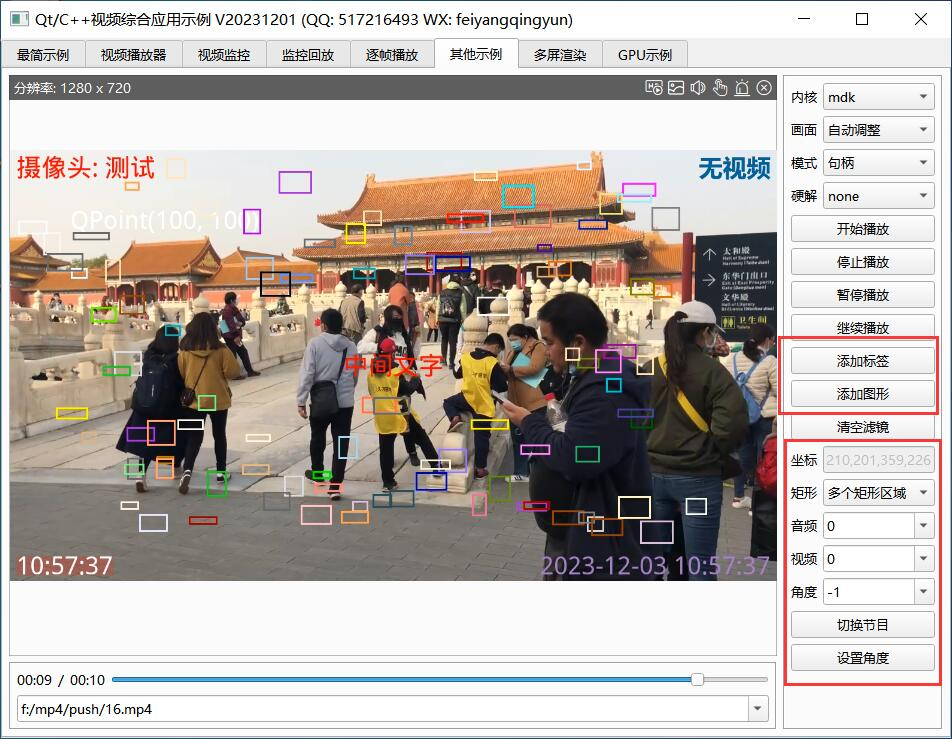
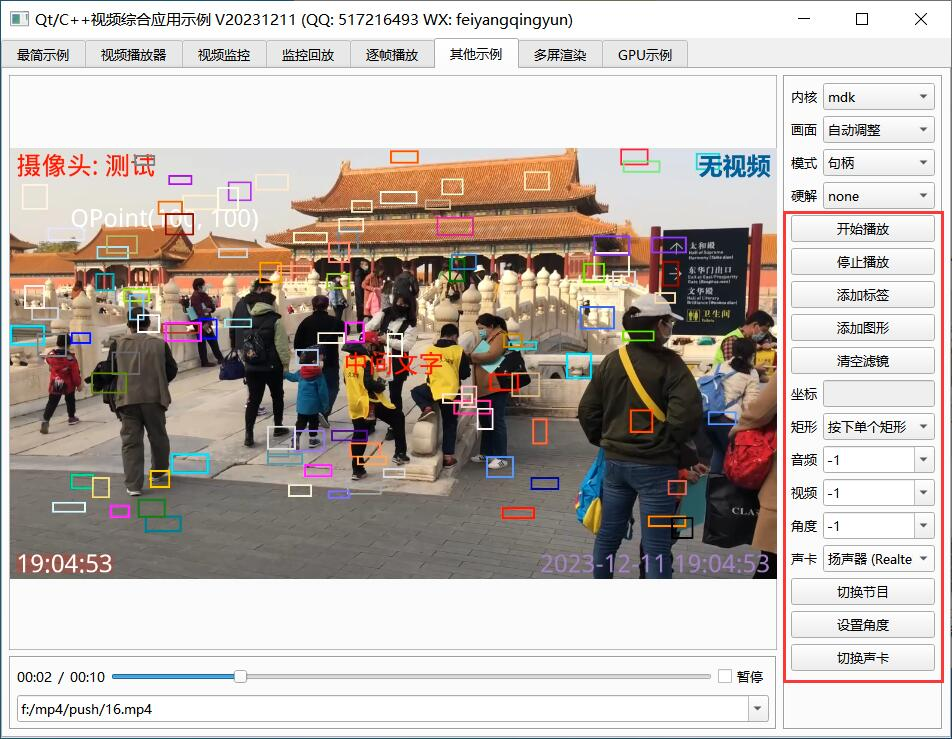
更新文档

diff --git a/snap_video_demo/readme.md b/snap_video_demo/readme.md
@@ -1,17 +1,18 @@
 
 ## 1. 前言说明
-1. 编译好之后记得将动态库文件比如dll_ffmpeg4（如果是vlc内核则是dll_vlc3）下面的所有文件复制到可执行文件同一目录。ffmpeg内核非windows系统开发，可以参考core_videoffmpeg目录下的文件，linux系统和mac系统上库的用法.txt / 编译阶段linux系统ffmpeg库放置位置.jpg / 运行阶段linux系统ffmpeg库放置位置。
-2. **编译后生成的可执行文件在当前项目源码下的bin目录中，和core_videobase同级目录。**
-3. 动态库区分32和64位，对应动态库目录后面有64字样表示是64位的库。
-4. 动态库下载链接：https://pan.baidu.com/s/13LDRu6mXC6gaADtrGprNVA 提取码: ujm7
-5. 如果需要滤镜支持比如文字水印还需要将源码下的 wenquanyi.ttf 字体文件复制到可执行文件同一目录。
-6. 项目作品大全：https://qtchina.blog.csdn.net/article/details/97565652。
-7. 代码文件说明：[https://feiyangqingyun.gitee.io/qwidgetdemo/video_system/#113313-模块-corevideoffmpeg](https://feiyangqingyun.gitee.io/qwidgetdemo/video_system/#113313-模块-corevideoffmpeg)
-8. 详细格式说明：[https://feiyangqingyun.gitee.io/qwidgetdemo/video_system/#07-视频格式](https://feiyangqingyun.gitee.io/qwidgetdemo/video_system/#07-视频格式)
+1. 编译好之后记得将动态库文件比如dll_ffmpeg4（如果是vlc内核则是dll_vlc3/举一反三其他内核都是如此）下面的所有文件复制到可执行文件同一目录。
+2. 非windows系统下使用ffmpeg内核，可以参考core_videoffmpeg目录下的说明文件，linux系统和mac系统上库的用法.txt / 编译阶段linux系统ffmpeg库放置位置.jpg / 运行阶段linux系统ffmpeg库放置位置。
+3. **编译后生成的可执行文件在当前项目源码下的bin目录中，和core_videobase同级目录。**
+4. 动态库严格区分32和64位，对应动态库目录后面有64字样表示是64位的库。如果用的是64位的Qt套件就选择64位的库。
+5. 动态库下载链接：https://pan.baidu.com/s/13LDRu6mXC6gaADtrGprNVA 提取码: ujm7
+6. 如果需要滤镜支持比如文字水印还需要将源码下的 wenquanyi.ttf 字体文件复制到可执行文件同一目录。
+7. 项目作品大全：https://qtchina.blog.csdn.net/article/details/97565652。
+8. 代码文件说明：[https://feiyangqingyun.gitee.io/qwidgetdemo/video_system/#113313-模块-corevideoffmpeg](https://feiyangqingyun.gitee.io/qwidgetdemo/video_system/#113313-模块-corevideoffmpeg)
+9. **地址格式说明：[https://feiyangqingyun.gitee.io/qwidgetdemo/video_system/#07-视频格式](https://feiyangqingyun.gitee.io/qwidgetdemo/video_system/#07-视频格式)**
 
 ## 2. 使用方法
 ### 2.0 特别提示
-- 除了ffmpeg内核有单独把音频视频和保存拆分成独立的组件以外，其他内核都是自己就是独立的完整的模块，所以其他模块都是和easyplayer内核一样有3个组件。
+- 每一种内核就是独立的完整的模块，可以独立拿出去使用。
 - 拷贝的pri组件建议放到你的项目的同级目录，这样方便区分管理，也可以放到你的项目的目录下，但是引入的时候记得做路径调整。比如代码文件的上级目录是 $$PWD/../ ，目录下就是 $$PWD/ 。
 - 使用对应的内核需要在pro中增加对应的内核定义，比如ffmpeg模块需要在pro中增加 DEFINES += ffmpeg 。
 - 具体的参数含义可以参见结构体定义（最重要的就是VideoPara和WidgetPara），以及完整的使用示例。
@@ -114,7 +115,7 @@ int main(int argc, char *argv[])
 11. 视频控件同时支持任意解码内核、任意画面显示策略、任意视频显示模式。
 12. 视频控件悬浮条同时支持句柄、绘制、GPU三种模式，非绝对坐标移来移去。
 13. 本地摄像头设备支持指定设备名称、分辨率、帧率进行播放。
-14. 本地桌面采集支持设定采集区域、偏移值、指定桌面索引、帧率、多个桌面同时采集等。
+14. 本地桌面采集支持设定采集区域、偏移值、指定桌面索引、帧率、多个桌面同时采集等。还支持指定窗口标题采集固定窗口。
 15. 录像文件同时支持打开的视频文件、本地摄像头、本地桌面、网络视频流等。
 16. 瞬间响应打开和关闭，无论是打开不存在的视频或者网络流，探测设备是否存在，读取中的超时等待，收到关闭指令立即中断之前的操作并响应。
 17. 支持打开各种图片文件，支持本地音视频文件拖曳播放。
@@ -130,18 +131,23 @@ int main(int argc, char *argv[])
 27. 内核ffmpeg采用纯qt+ffmpeg解码，非sdl等第三方绘制播放依赖，gpu绘制采用qopenglwidget，音频播放采用qaudiooutput。
 28. 内核ffmpeg和内核mdk支持安卓，其中mdk支持安卓硬解码，性能非常凶残。
 29. 可以切换音视频轨道，也就是节目通道，可能ts文件带了多个音视频节目流，可以分别设置要播放哪一个，可以播放前设置好和播放过程中动态设置。
-30. 可以设置视频旋转角度，可以播放前设置好和播放过程中动态设置。
+30. 可以设置视频旋转角度，可以播放前设置好和播放过程中动态改变。
 31. 视频控件悬浮条自带开始和停止录像切换、声音静音切换、抓拍截图、关闭视频等功能。
 32. 音频组件支持声音波形值数据解析，可以根据该值绘制波形曲线和柱状声音条，默认提供了声音振幅信号。
 33. 标签和图形信息支持三种绘制方式，绘制到遮罩层、绘制到图片、源头绘制（对应信息可以存储到文件）。
 34. 通过传入一个url地址，该地址可以带上通信协议、分辨率、帧率等信息，无需其他设置。
 35. 保存视频到文件支持三种策略，自动处理、仅限文件、全部转码，转码策略支持自动识别、转264、转265，编码保存支持指定分辨率缩放或者等比例缩放。比如对保存文件体积有要求可以指定缩放后再存储。
 36. 支持加密保存文件和解密播放文件，可以指定秘钥文本。
-37. 支持电子放大，在悬浮条切换到电子放大模式，在画面上选择需要放大的区域，选取完毕后自动放大，再次切换放大模式可以复位。
-38. 各组件中极其详细的打印信息提示，尤其是报错信息提示，封装的统一打印格式。针对现场复杂的设备环境测试极其方便有用，相当于精确定位到具体哪个通道哪个步骤出错。
-39. 同时提供了简单示例、视频播放器、多画面视频监控、监控回放、逐帧播放、多屏渲染等单独窗体示例，专门演示对应功能如何使用。
-40. 代码框架和结构优化到最优，性能强悍，持续迭代更新升级。
-41. 源码支持Qt4、Qt5、Qt6，兼容所有版本。
+37. 提供的监控布局类支持64通道同时显示，还支持各种异型布局，比如13通道，手机上6行2列布局。各种布局可以自由定义。
+38. 支持电子放大，在悬浮条切换到电子放大模式，在画面上选择需要放大的区域，选取完毕后自动放大，再次切换放大模式可以复位。
+39. 各组件中极其详细的打印信息提示，尤其是报错信息提示，封装的统一打印格式。针对现场复杂的设备环境测试极其方便有用，相当于精确定位到具体哪个通道哪个步骤出错。
+40. 同时提供了简单示例、视频播放器、多画面视频监控、监控回放、逐帧播放、多屏渲染等单独窗体示例，专门演示对应功能如何使用。
+41. 监控回放可选不同厂家类型、回放时间段、用户信息、指定通道。支持切换回放进度。
+42. 可以从声卡设备下拉框选择声卡播放声音，提供对应的切换声卡函数接口。
+43. 支持编译到手机app使用，提供了专门的手机app布局界面，可以作为手机上的视频监控使用。
+44. 代码框架和结构优化到最优，性能强悍，注释详细，持续迭代更新升级。
+45. 源码支持windows、linux、mac、android等，支持各种国产linux系统，包括但不限于统信UOS/中标麒麟/银河麒麟等。还支持嵌入式linux。
+46. 源码支持Qt4、Qt5、Qt6，兼容所有版本。
 
 ## 5. 视频控件
 1. 可动态添加任意多个osd标签信息，标签信息包括名字、是否可见、字号大小、文本文字、文本颜色、背景颜色、标签图片、标签坐标、标签格式（文本、日期、时间、日期时间、图片）、标签位置（左上角、左下角、右上角、右下角、居中、自定义坐标）。
@@ -165,20 +171,15 @@ int main(int argc, char *argv[])
 5. 如果嵌入式板子上厂家移植好了硬解码到QMediaPlayer模块，推荐qmedia内核。
 6. 视频显示模式受限于具体的解码内核支持，比如目前mpv内核只有句柄模式，vlc内核只有句柄和绘制模式，ffmpeg内核只有绘制和GPU模式，海康内核支持三种模式。
 7. 视频控件支持的图形信息，只支持绘制模式，只有绘制模式才能把图形信息绘制到原始图片上。
-8. 录像文件存储除了ffmpeg内核外（可选分开存储还是合并存储），其他内核都是音视频一起存储到一个文件。
-9. 在qmedia内核有几个缺点：Qt5中句柄模式不能获取到分辨率等信息，需要切换到QAbstractVideoSurface获取到以后再返回；Qt6性能爆表，但是目前还不支持网络流比如rtsp视频流，很奇怪的是Qt5反而支持。
-10. Qt6.0到Qt6.2之间的版本由于缺失多媒体模块所以无法使用qmedia内核。
-11. ffmpeg内核最快速度解码策略：速度优先并且不做音视频同步，打开不等待缓存，一般在特定视频流环境中需要，对响应速度有要求的。
-12. vlc内核如果同时打开多路视频流建议缓存设置大一些，不然CPU占用极高容易崩溃。
-13. mpv内核有内存泄漏迹象，和mpv动态库有关。
-14. linux安装 apt-get install gstreamer1.0-libav。https://blog.csdn.net/MoonShapedPool/article/details/82835565
-15. 画面选择拉伸填充标签效果最佳，画面选择自动调整图形效果最佳。
-16. Qt4中音频组件不能调节声音大小。
-17. Qt5.6以下的多媒体模块视频没有图像，QAbstractVideoSurface也获取不到图像。
-18. vlc内核和mpv内核在保存阶段不建议切换播放进度，vlc内部强制不允许切换，mpv切换了会保存错乱。
-19. ffmpeg内核支持保存阶段切换播放进度，因为底层是自己写的代码处理的保存，做了特殊处理。
-20. ffmpeg内核32位不支持超过14路同时录制，原因未知，建议选择64位。
-21. qmedia内核暂时不支持保存文件，有对应的类但是Qt底层没实现，坐等他实现。
-22. 打开本地摄像头格式说明：video=USB2.0 PC CAMERA|1280x720|30，这种写法按照指定的分辨率1280x720以及采集帧率30来打开摄像头。video=/dev/video0|1920x1080|25，这种写法在linux系统按照指定的分辨率1920x1080以及采集帧率25来打开摄像头，如果指定了分辨率和帧率则需要硬件支持才行，比如摄像头的最大分辨率是640x480，而指定了1280x720则会打开失败。
-23. ffmpeg内核有多种解码处理策略，文件/rtmp/http等视频流，默认开启了音视频同步，如果想要以最快的速度播放，策略选择最快速度。rtsp视频流默认没有开启音视频同步（为了最快速度显示画面/网络正常的情况下音视频也是同步传输过来的），如果想要有缓存以及音视频同步，策略选择质量优先。本地摄像头和桌面没有音视频同步，直接采集到是啥就立即显示啥。
-24. ffmpeg内核对本地摄像头和桌面帧率处理策略，如果指定了就按照指定的帧率，没有指定就不设置帧率，ffmpeg内部会自动给定一个合理的帧率进行采集，比如本地摄像头如果分辨率是640x480则默认帧率是30，分辨率1280x720则默认帧率是5，桌面默认帧率是30，具体估计要根据系统环境变化。一般建议主动设置帧率。
+8. Qt6.0到Qt6.2之间的版本由于缺失多媒体模块所以无法使用qmedia内核。
+9. ffmpeg内核最快速度解码策略：速度优先并且不做音视频同步，打开不等待缓存，一般在特定视频流环境中需要，对响应速度有要求的。
+10. vlc内核如果同时打开多路视频流建议缓存设置大一些，不然CPU占用极高容易崩溃。
+11. mpv内核有内存泄漏迹象，和mpv动态库有关。
+12. linux安装 apt-get install gstreamer1.0-libav。https://blog.csdn.net/MoonShapedPool/article/details/82835565
+13. 画面选择拉伸填充标签效果最佳，画面选择自动调整图形效果最佳。
+14. Qt4中音频组件不能调节声音大小。
+15. Qt5.6以下的多媒体模块视频没有图像，QAbstractVideoSurface也获取不到图像。
+16. vlc内核和mpv内核在保存阶段不建议切换播放进度，vlc内部强制不允许切换，mpv切换了会保存错乱。
+17. ffmpeg内核支持保存阶段切换播放进度，因为底层是自己写的代码处理的保存，做了特殊处理。
+18. ffmpeg内核32位不支持超过14路同时录制，原因未知，建议选择64位。
+19. qmedia内核暂时不支持保存文件，有对应的类但是Qt底层没实现，坐等他实现。

diff --git a/README.md b/README.md
@@ -118,7 +118,7 @@
 11. 视频控件同时支持任意解码内核、任意画面显示策略、任意视频显示模式。
 12. 视频控件悬浮条同时支持句柄、绘制、GPU三种模式，非绝对坐标移来移去。
 13. 本地摄像头设备支持指定设备名称、分辨率、帧率进行播放。
-14. 本地桌面采集支持设定采集区域、偏移值、指定桌面索引、帧率、多个桌面同时采集等。
+14. 本地桌面采集支持设定采集区域、偏移值、指定桌面索引、帧率、多个桌面同时采集等。还支持指定窗口标题采集固定窗口。
 15. 录像文件同时支持打开的视频文件、本地摄像头、本地桌面、网络视频流等。
 16. 瞬间响应打开和关闭，无论是打开不存在的视频或者网络流，探测设备是否存在，读取中的超时等待，收到关闭指令立即中断之前的操作并响应。
 17. 支持打开各种图片文件，支持本地音视频文件拖曳播放。
@@ -134,18 +134,23 @@
 27. 内核ffmpeg采用纯qt+ffmpeg解码，非sdl等第三方绘制播放依赖，gpu绘制采用qopenglwidget，音频播放采用qaudiooutput。
 28. 内核ffmpeg和内核mdk支持安卓，其中mdk支持安卓硬解码，性能非常凶残。
 29. 可以切换音视频轨道，也就是节目通道，可能ts文件带了多个音视频节目流，可以分别设置要播放哪一个，可以播放前设置好和播放过程中动态设置。
-30. 可以设置视频旋转角度，可以播放前设置好和播放过程中动态设置。
+30. 可以设置视频旋转角度，可以播放前设置好和播放过程中动态改变。
 31. 视频控件悬浮条自带开始和停止录像切换、声音静音切换、抓拍截图、关闭视频等功能。
 32. 音频组件支持声音波形值数据解析，可以根据该值绘制波形曲线和柱状声音条，默认提供了声音振幅信号。
 33. 标签和图形信息支持三种绘制方式，绘制到遮罩层、绘制到图片、源头绘制（对应信息可以存储到文件）。
 34. 通过传入一个url地址，该地址可以带上通信协议、分辨率、帧率等信息，无需其他设置。
 35. 保存视频到文件支持三种策略，自动处理、仅限文件、全部转码，转码策略支持自动识别、转264、转265，编码保存支持指定分辨率缩放或者等比例缩放。比如对保存文件体积有要求可以指定缩放后再存储。
 36. 支持加密保存文件和解密播放文件，可以指定秘钥文本。
-37. 支持电子放大，在悬浮条切换到电子放大模式，在画面上选择需要放大的区域，选取完毕后自动放大，再次切换放大模式可以复位。
-38. 各组件中极其详细的打印信息提示，尤其是报错信息提示，封装的统一打印格式。针对现场复杂的设备环境测试极其方便有用，相当于精确定位到具体哪个通道哪个步骤出错。
-39. 同时提供了简单示例、视频播放器、多画面视频监控、监控回放、逐帧播放、多屏渲染等单独窗体示例，专门演示对应功能如何使用。
-40. 代码框架和结构优化到最优，性能强悍，持续迭代更新升级。
-41. 源码支持Qt4、Qt5、Qt6，兼容所有版本。
+37. 提供的监控布局类支持64通道同时显示，还支持各种异型布局，比如13通道，手机上6行2列布局。各种布局可以自由定义。
+38. 支持电子放大，在悬浮条切换到电子放大模式，在画面上选择需要放大的区域，选取完毕后自动放大，再次切换放大模式可以复位。
+39. 各组件中极其详细的打印信息提示，尤其是报错信息提示，封装的统一打印格式。针对现场复杂的设备环境测试极其方便有用，相当于精确定位到具体哪个通道哪个步骤出错。
+40. 同时提供了简单示例、视频播放器、多画面视频监控、监控回放、逐帧播放、多屏渲染等单独窗体示例，专门演示对应功能如何使用。
+41. 监控回放可选不同厂家类型、回放时间段、用户信息、指定通道。支持切换回放进度。
+42. 可以从声卡设备下拉框选择声卡播放声音，提供对应的切换声卡函数接口。
+43. 支持编译到手机app使用，提供了专门的手机app布局界面，可以作为手机上的视频监控使用。
+44. 代码框架和结构优化到最优，性能强悍，注释详细，持续迭代更新升级。
+45. 源码支持windows、linux、mac、android等，支持各种国产linux系统，包括但不限于统信UOS/中标麒麟/银河麒麟等。还支持嵌入式linux。
+46. 源码支持Qt4、Qt5、Qt6，兼容所有版本。
 
 ### 3.3. 视频控件
 1. 可动态添加任意多个osd标签信息，标签信息包括名字、是否可见、字号大小、文本文字、文本颜色、背景颜色、标签图片、标签坐标、标签格式（文本、日期、时间、日期时间、图片）、标签位置（左上角、左下角、右上角、右下角、居中、自定义坐标）。
@@ -169,7 +174,7 @@
 ![](snap_video_demo/video_demo5.jpg)
 ![](snap_video_demo/video_demo6.jpg)
 ![](snap_video_demo/video_demo7.jpg)
-![](snap_video_demo/video_demo8.jpg)
+![](snap_video_demo/video_demo_android1.jpg)
 
 ## 4 皮肤生成器和精美界面
 ### 4.1 功能特点
